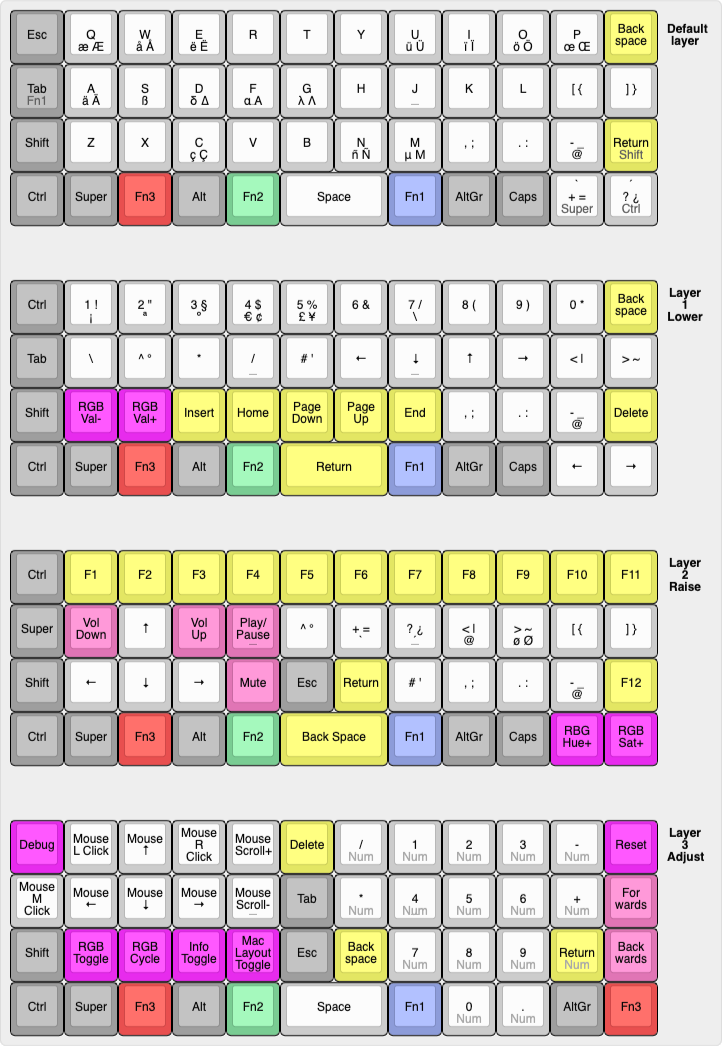
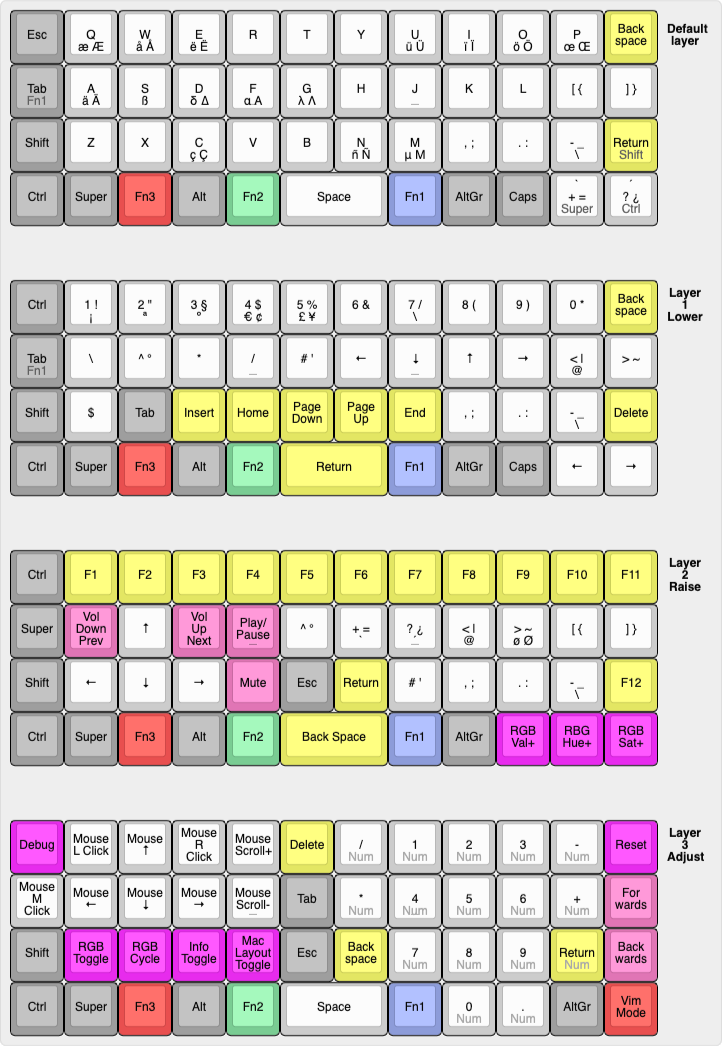
rgb keys in one place, $-key, extra tab key, prev/next song using shift + vol up/down - moved RGB_VAI to the same layer / position other rgb functions are as well - added dollar sign ($) key where RGB_VAD was - added tab key where RGB_VAI was - when shift is pressed VOL UP and VOL DOWN turn into NEX

diff --git a/keymap.c b/keymap.c
@@ -68,7 +68,7 @@ const uint16_t PROGMEM keymaps[][MATRIX_ROWS][MATRIX_COLS] = {
   [_L_LOWER] = LAYOUT_planck_mit(
     KC_RCTL, KC_1,         KC_2,    KC_3,         KC_4,     KC_5,    KC_6,    KC_7,    KC_8,    KC_9,    KC_0,    KC_BSPC,
     KC_TRNS, _L_BACKSLASH, KC_GRV,  _L_ASTERISKS, _L_SLASH, KC_BSLS, KC_LEFT, KC_DOWN, KC_UP,   KC_RGHT, KC_SCLN, KC_QUOT,
-    KC_TRNS, RGB_VAD,      RGB_VAI, KC_INS,       KC_HOME,  KC_PGDN, KC_PGUP, KC_END,  KC_COMM, KC_DOT,  KC_SLSH, KC_DEL,
+    KC_TRNS, _L_DOLLAR,    KC_TAB,  KC_INS,       KC_HOME,  KC_PGDN, KC_PGUP, KC_END,  KC_COMM, KC_DOT,  KC_SLSH, KC_DEL,
     KC_TRNS, KC_TRNS,      KC_TRNS, KC_TRNS,      KC_TRNS,  KC_TRNS,          KC_TRNS, KC_TRNS, KC_TRNS, KC_LEFT, KC_RIGHT
   ),
 
@@ -84,10 +84,10 @@ const uint16_t PROGMEM keymaps[][MATRIX_ROWS][MATRIX_COLS] = {
    * `-----------------------------------------------------------------------------------'
    */
   [_L_RAISE] = LAYOUT_planck_mit(
-    KC_TRNS, KC_F1,   KC_F2,   KC_F3,   KC_F4,   KC_F5,   KC_F6,   KC_F7,   KC_F8,   KC_F9,    KC_F10,  KC_F11,
-    KC_LGUI, KC_VOLD, KC_UP,   KC_VOLU, KC_MPLY, KC_GRV,  KC_MINS, KC_EQL,  KC_SCLN, KC_QUOT,  KC_LBRC, KC_RBRC,
-    KC_TRNS, KC_LEFT, KC_DOWN, KC_RGHT, KC_MUTE, KC_ESC,  KC_ENT,  KC_BSLS, KC_COMM, KC_DOT,   KC_SLSH, KC_F12,
-    KC_TRNS, KC_TRNS, KC_TRNS, KC_TRNS, KC_TRNS, KC_BSPC,          KC_TRNS, KC_TRNS, KC_TRNS,  RGB_HUI, RGB_SAI
+    KC_TRNS, KC_F1,   KC_F2,   KC_F3,   KC_F4,   KC_F5,   KC_F6,   KC_F7,   KC_F8,   KC_F9,   KC_F10,  KC_F11,
+    KC_LGUI, _L_VD_P, KC_UP,   _L_VU_N, KC_MPLY, KC_GRV,  KC_MINS, KC_EQL,  KC_SCLN, KC_QUOT, KC_LBRC, KC_RBRC,
+    KC_TRNS, KC_LEFT, KC_DOWN, KC_RGHT, KC_MUTE, KC_ESC,  KC_ENT,  KC_BSLS, KC_COMM, KC_DOT,  KC_SLSH, KC_F12,
+    KC_TRNS, KC_TRNS, KC_TRNS, KC_TRNS, KC_TRNS, KC_BSPC,          KC_TRNS, KC_TRNS, RGB_VAI, RGB_HUI, RGB_SAI
   ),
 
   /* Linux Adjust
@@ -155,7 +155,7 @@ const uint16_t PROGMEM keymaps[][MATRIX_ROWS][MATRIX_COLS] = {
   [_M_LOWER] = LAYOUT_planck_mit(
     KC_RCTL,      KC_1,         KC_2,    KC_3,         KC_4,     KC_5,    KC_6,    KC_7,    KC_8,    KC_9,    KC_0,    KC_BSPC,
     _M_TAB_LOWER, _M_BACKSLASH, KC_GRV,  _M_ASTERISKS, _M_SLASH, KC_BSLS, KC_LEFT, KC_DOWN, KC_UP,   KC_RGHT, KC_SCLN, KC_QUOT,
-    KC_TRNS,      RGB_VAD,      RGB_VAI, KC_INS,       KC_HOME,  KC_PGDN, KC_PGUP, KC_END,  KC_COMM, KC_DOT,  KC_SLSH, KC_DEL,
+    KC_TRNS,      _M_DOLLAR,    KC_TAB,  KC_INS,       KC_HOME,  KC_PGDN, KC_PGUP, KC_END,  KC_COMM, KC_DOT,  KC_SLSH, KC_DEL,
     KC_TRNS,      KC_TRNS,      KC_TRNS, KC_TRNS,      KC_TRNS,  KC_TRNS,          KC_TRNS, KC_TRNS, KC_TRNS, KC_LEFT, KC_RIGHT
   ),
 
@@ -171,10 +171,10 @@ const uint16_t PROGMEM keymaps[][MATRIX_ROWS][MATRIX_COLS] = {
    * `-----------------------------------------------------------------------------------'
    */
   [_M_RAISE] = LAYOUT_planck_mit(
-    KC_TRNS, KC_F1,   KC_F2,   KC_F3,   KC_F4,   KC_F5,   KC_F6,   KC_F7,   KC_F8,   KC_F9,    KC_F10,  KC_F11,
-    KC_LGUI, KC_VOLD, KC_UP,   KC_VOLU, KC_MPLY, KC_GRV,  KC_MINS, KC_EQL,  KC_SCLN, KC_QUOT,  KC_LBRC, KC_RBRC,
-    KC_TRNS, KC_LEFT, KC_DOWN, KC_RGHT, KC_MUTE, KC_ESC,  KC_ENT,  KC_BSLS, KC_COMM, KC_DOT,   KC_SLSH, KC_F12,
-    KC_TRNS, KC_TRNS, KC_TRNS, KC_TRNS, KC_TRNS, KC_BSPC,          KC_TRNS, KC_TRNS, KC_TRNS,  RGB_HUI, RGB_SAI
+    KC_TRNS, KC_F1,   KC_F2,   KC_F3,   KC_F4,   KC_F5,   KC_F6,   KC_F7,   KC_F8,   KC_F9,   KC_F10,  KC_F11,
+    KC_LGUI, _M_VD_P, KC_UP,   _L_VU_N, KC_MPLY, KC_GRV,  KC_MINS, KC_EQL,  KC_SCLN, KC_QUOT, KC_LBRC, KC_RBRC,
+    KC_TRNS, KC_LEFT, KC_DOWN, KC_RGHT, KC_MUTE, KC_ESC,  KC_ENT,  KC_BSLS, KC_COMM, KC_DOT,  KC_SLSH, KC_F12,
+    KC_TRNS, KC_TRNS, KC_TRNS, KC_TRNS, KC_TRNS, KC_BSPC,          KC_TRNS, KC_TRNS, RGB_VAI, RGB_HUI, RGB_SAI
   ),
 
   /* MacOS Adjust
@@ -433,6 +433,42 @@ bool process_record_user(uint16_t keycode, keyrecord_t *record) {
         _print("COLOR_UPDATE:showcasing new color\n");
       }
     } return false;
+
+    case _L_VD_P: // volume down; previous song
+    case _M_VD_P: { // could theoretically make OS dependent changes here but the OS's are quite
+      uint8_t shifted = get_mods() & MOD_MASK_SHIFT;
+      if(record->event.pressed) {
+        if(shifted) {
+          _print("PRV\n");
+          register_code(KC_MPRV);
+        } else {
+          _print("VD\n");
+          register_code(KC_VOLD);
+        }
+      } else {
+        // unregistering both keys; is this potentially bad practice?
+        unregister_code(KC_MPRV);
+        unregister_code(KC_VOLD);
+      }
+    } break;
+
+    case _L_VU_N: // volume up; next song
+    case _M_VU_N: {
+      uint8_t shifted = get_mods() & MOD_MASK_SHIFT;
+      if(record->event.pressed) {
+        if(shifted) {
+          _print("NXT\n");
+          register_code(KC_MNXT);
+        } else {
+          _print("VU\n");
+          register_code(KC_VOLU);
+        }
+      } else {
+        // unregistering both keys; is this potentially bad practice?
+        unregister_code(KC_MNXT);
+        unregister_code(KC_VOLU);
+      }
+    } break;
 
 
     /* Info Toggle */

diff --git a/config.h b/config.h
@@ -68,6 +68,10 @@
 #define _L_ASTERISKS LSFT(KC_0)
 #define _M_ASTERISKS LSFT(KC_0) // potentially customize for usage with default osx-layout
 
+/* dollar sign on both Linux and MaxOS; assuming german layout */
+#define _L_DOLLAR LSFT(KC_4)
+#define _M_DOLLAR LSFT(KC_4)
+
 #define _BACKWARDS LCTL(KC_PGUP)
 #define _FORWARDS  LCTL(KC_PGDN)
 

diff --git a/keymap.h b/keymap.h
@@ -38,7 +38,10 @@ enum keycodes {
   L_BASE, L_LOWER, L_RAISE, L_ADJUST,
 
   /* MacOS layer switches */
-  M_BASE, M_LOWER, M_RAISE, M_ADJUST
+  M_BASE, M_LOWER, M_RAISE, M_ADJUST,
+
+  /* vol down / vol up or prev / next song if shift is pressed */
+  _L_VD_P, _M_VD_P, _L_VU_N, _M_VU_N
 };
 
 typedef union {
